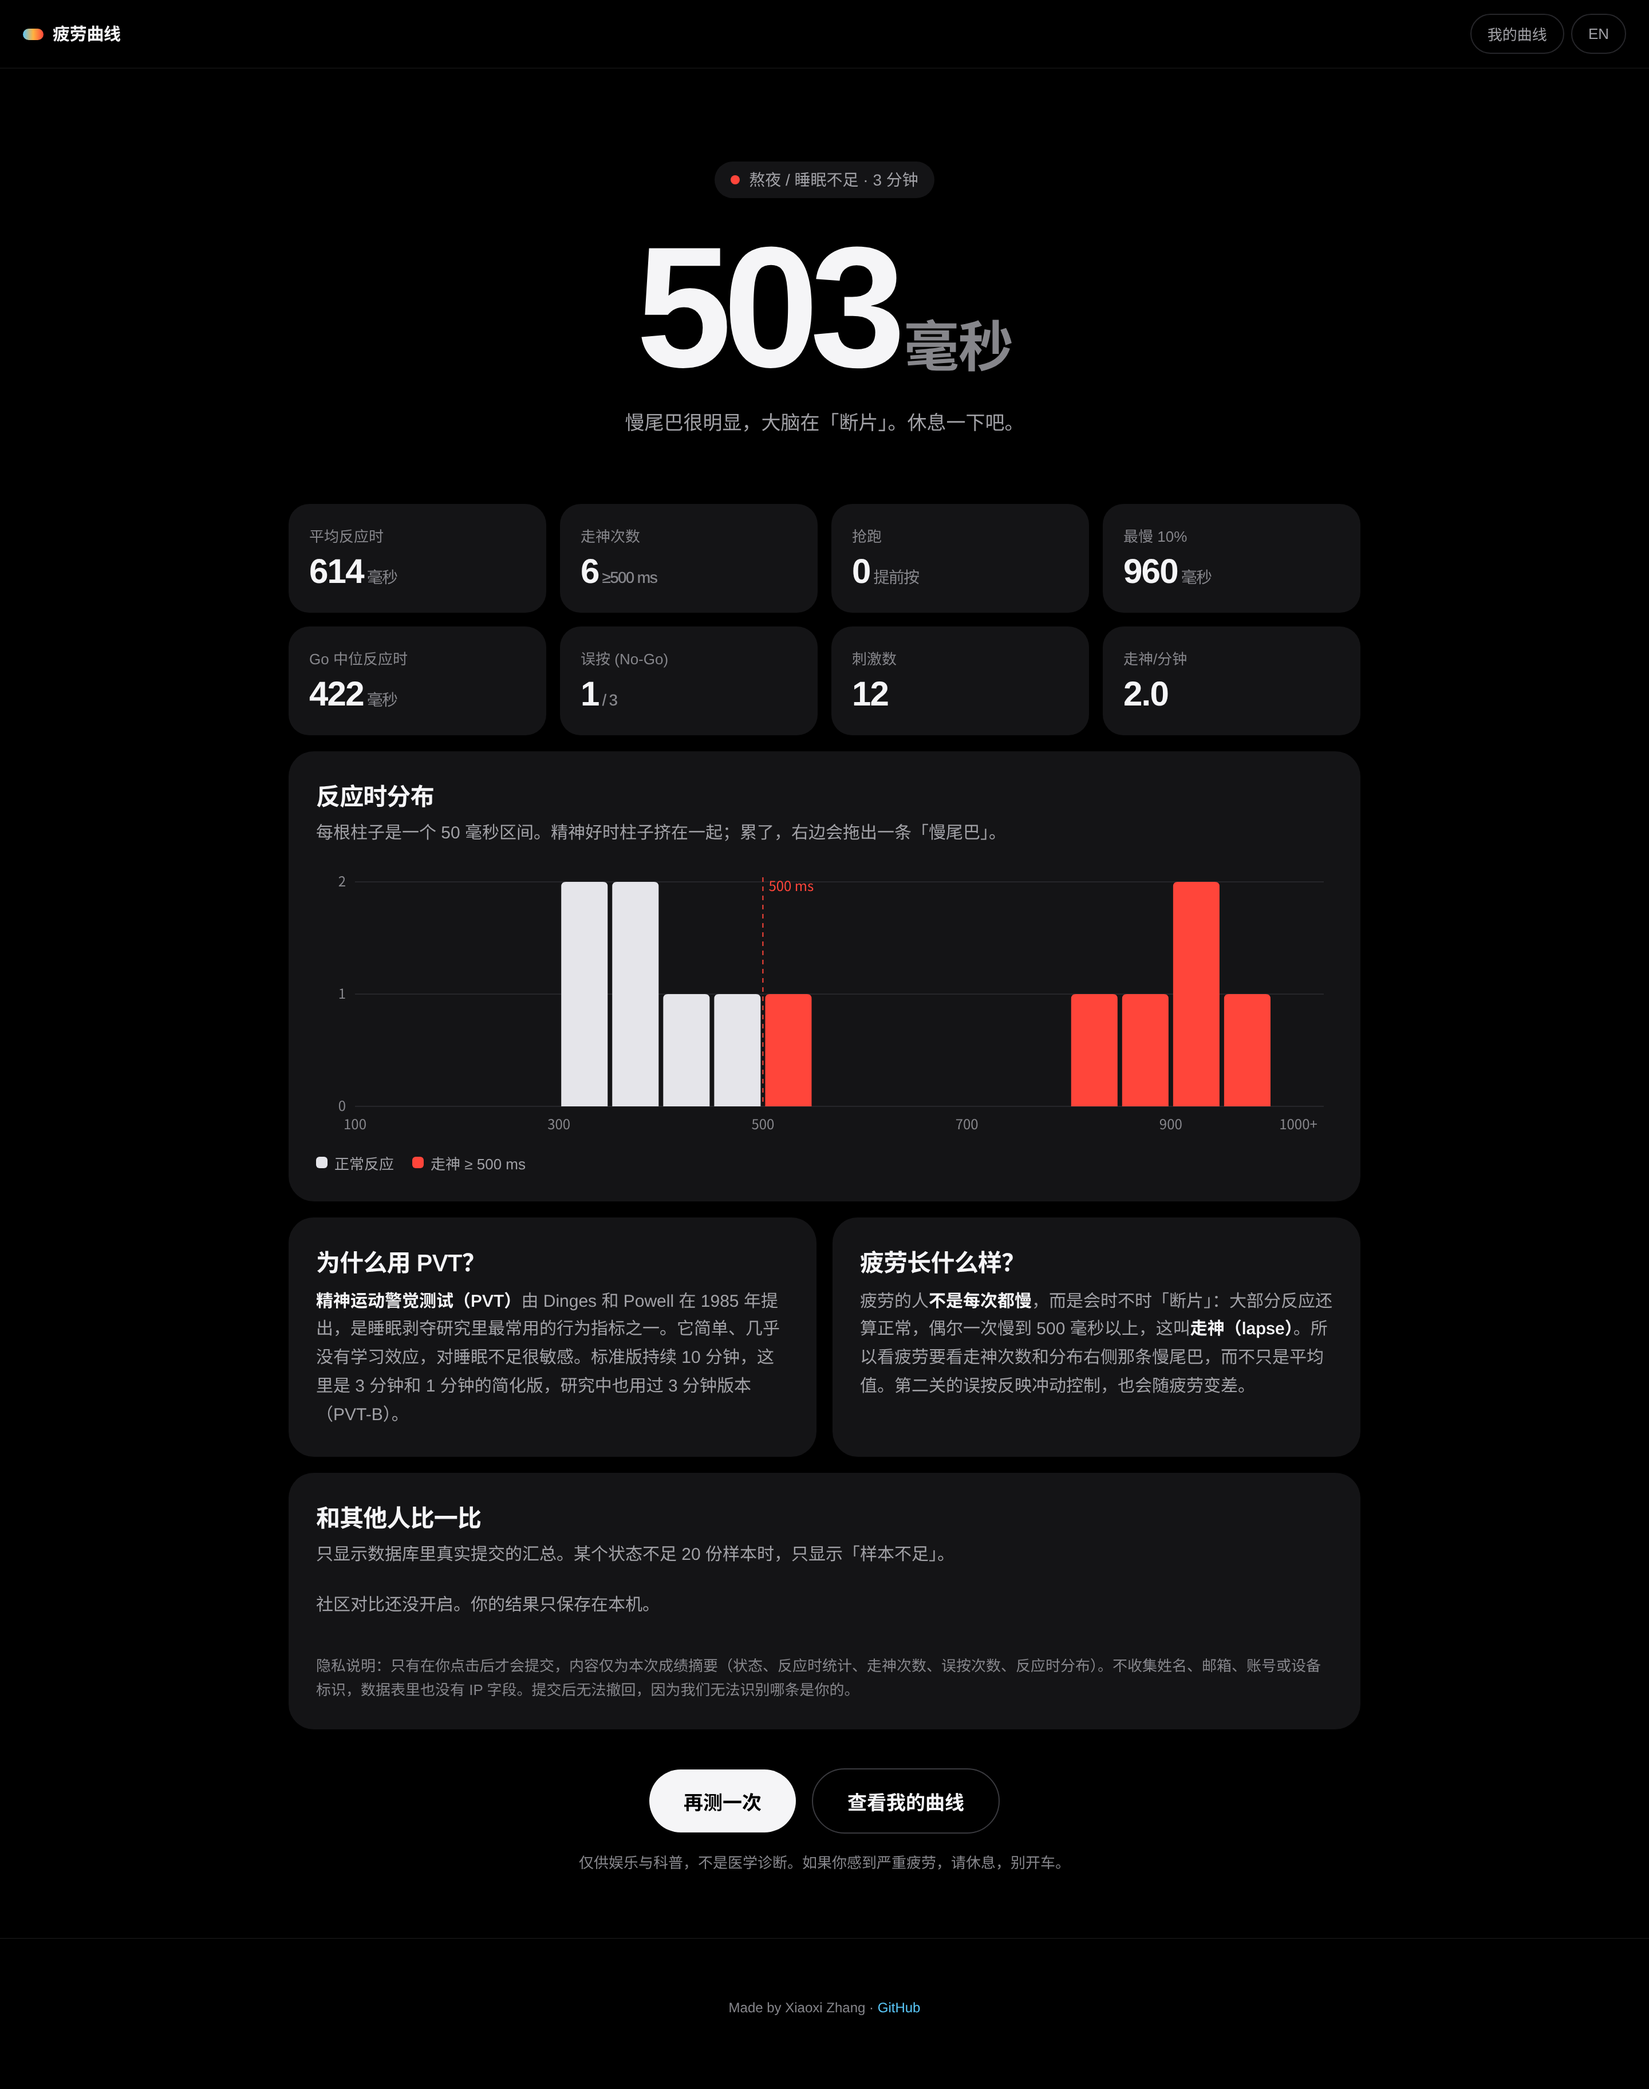
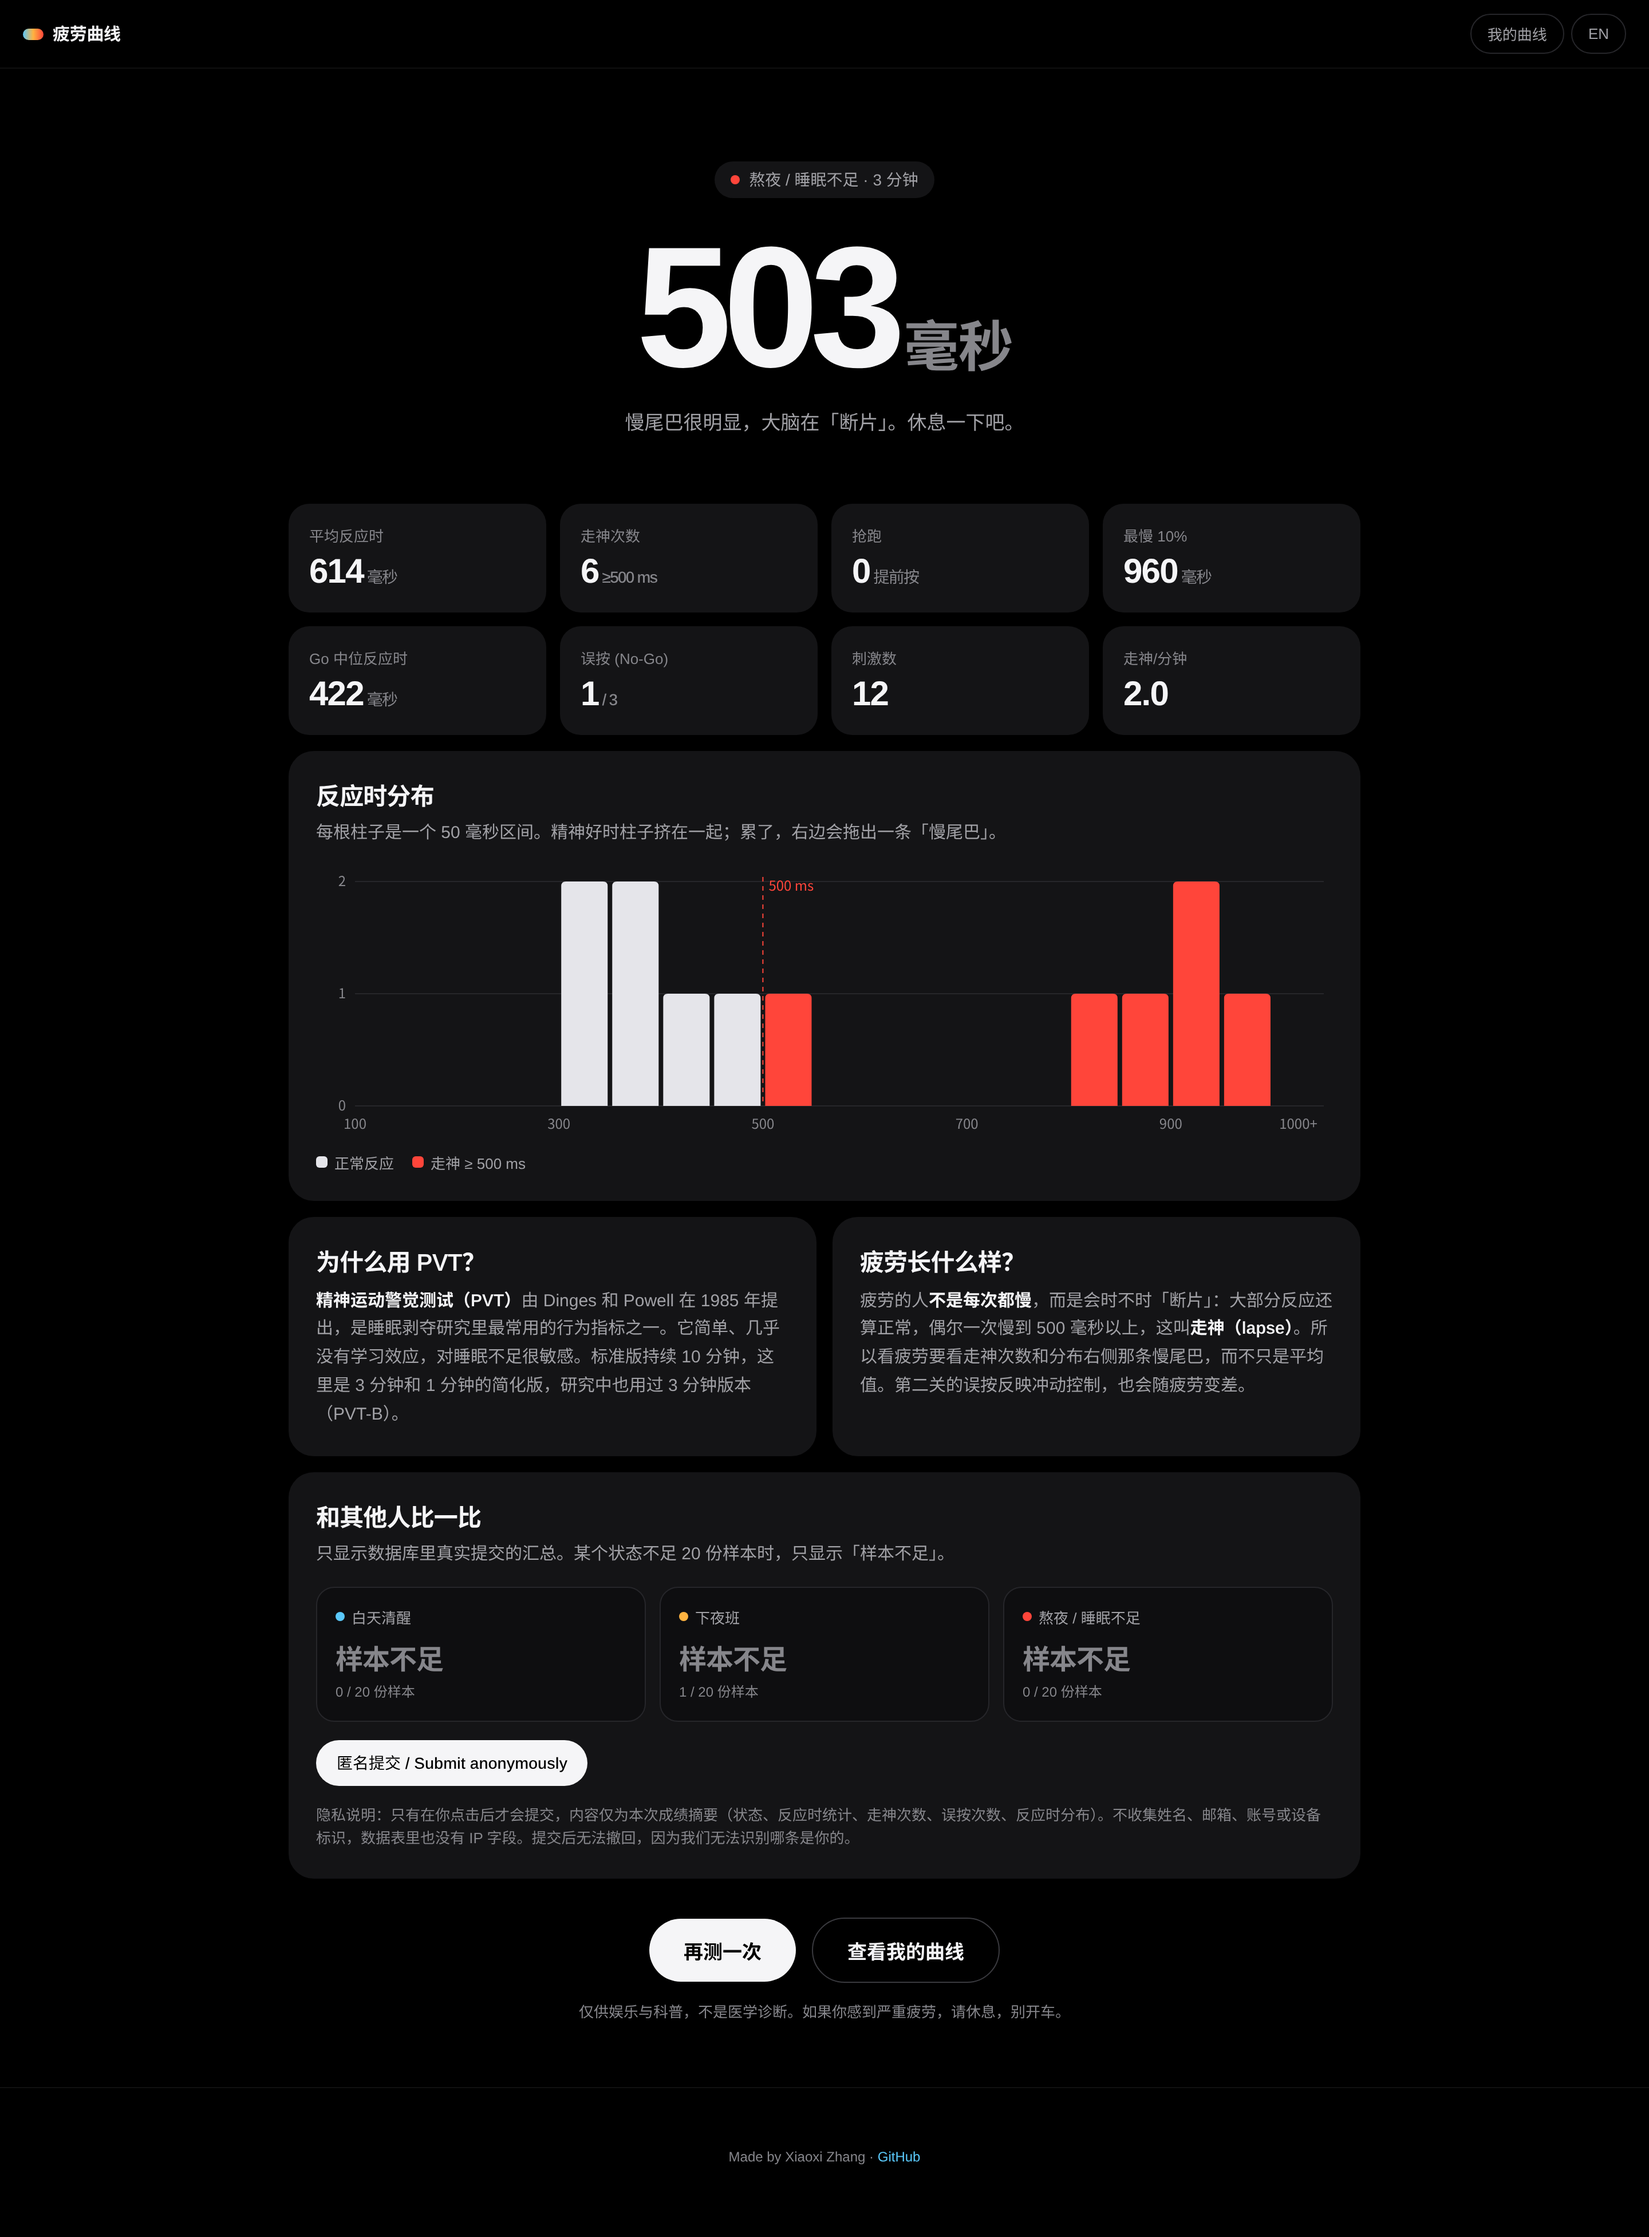
Wire up Supabase (publishable key, RLS-protected) and refresh result screenshots

diff --git a/index.html b/index.html
@@ -304,9 +304,9 @@ footer{color:var(--mut);font-size:12px;line-height:1.7;text-align:center;padding
 'use strict';
 /* ===== Config ===== */
 const VERSION = '1.0.0';
-// Fill these after creating the Supabase project (publishable/anon key is meant to be public; RLS protects the data).
-const SUPABASE_URL = (window.__FC_TEST && window.__FC_TEST.sbUrl) || '';
-const SUPABASE_KEY = (window.__FC_TEST && window.__FC_TEST.sbKey) || '';
+// Supabase publishable key is meant to be public; RLS + column grants protect the data (see supabase/schema.sql).
+const SUPABASE_URL = (window.__FC_TEST && window.__FC_TEST.sbUrl) || 'https://kjyyyphkqpwiiemkharm.supabase.co';
+const SUPABASE_KEY = (window.__FC_TEST && window.__FC_TEST.sbKey) || 'sb_publishable_iABev9WOpTs-SZvmaCJI0g_Ve_Lrz9b';
 const MIN_SAMPLES = 20;
 const T = Object.assign({ isiMin:2000, isiMax:10000, timeout:30000, gngTrials:{3:40,1:25} }, window.__FC_TEST || {});
 const STORE_KEY = 'fatigueCurve.v1';
@@ -664,7 +664,7 @@ $('#submitBtn').onclick = async () => {
     state: r.state, test_type: r.mode === 1 ? 'pvt1_gng' : 'pvt3_gng',
     median_rt_ms: clamp(r.median,100,30000), mean_rt_ms: clamp(r.mean,100,30000),
     lapses: clamp(r.lapses,0,300), false_starts: clamp(r.fs,0,300), nogo_errors: clamp(r.nogoErr,0,100),
-    n_trials: clamp(Math.max(r.n,5),5,300), rt_hist: r.hist, client_version: VERSION
+    n_trials: clamp(Math.max(r.n,5),5,300), rt_hist: r.hist, client_version: T.clientVersion || VERSION
   };
   try {
     const res = await fetch(SUPABASE_URL + '/rest/v1/pvt_results', { method:'POST', headers: Object.assign(sbHeaders(), {'Prefer':'return=minimal'}), body: JSON.stringify(body) });
